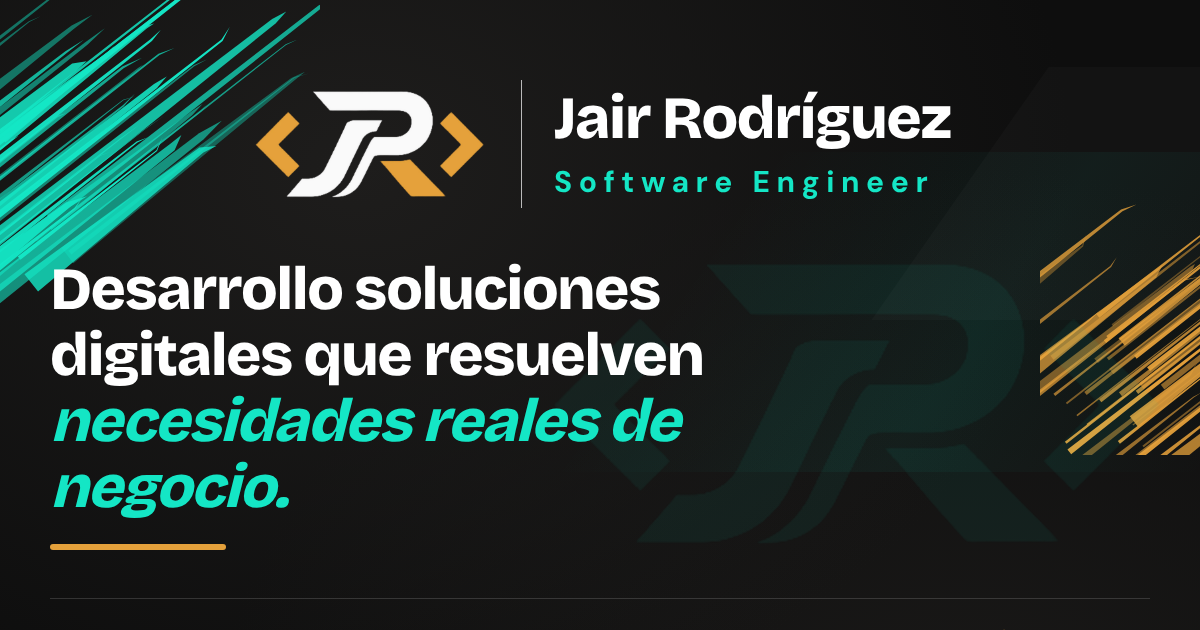
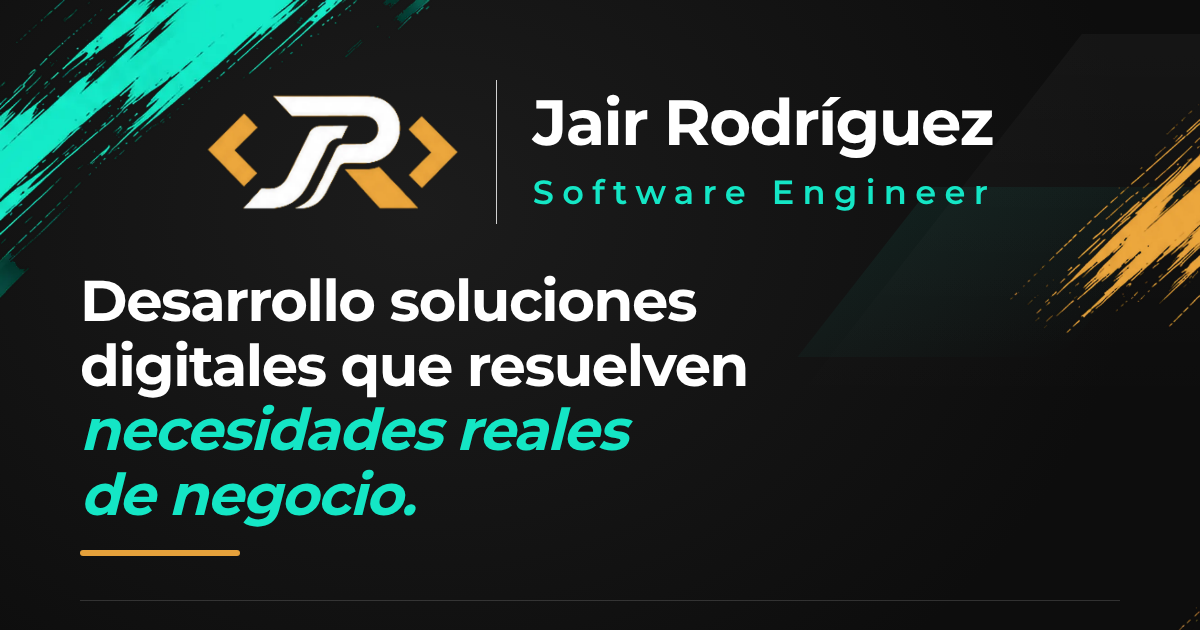
Tarjeta JR: brochazos y monograma originales, tipografía Montserrat
Claude-Session: https://claude.ai/code/session_01SPZzE7V1rF7zVSmvmfi8Vf

diff --git a/components/jr/JrCard.tsx b/components/jr/JrCard.tsx
@@ -4,7 +4,7 @@ import { FaGithub, FaLinkedinIn, FaWhatsapp } from "react-icons/fa";
 import {
   LuArrowRight,
   LuBrain,
-  LuChartNoAxesColumnIncreasing,
+  LuChartColumnIncreasing,
   LuCodeXml,
   LuDownload,
   LuGlobe,
@@ -12,15 +12,22 @@ import {
   LuSettings,
   LuUserPlus,
 } from "react-icons/lu";
+import { jrFont } from "./font";
 import { contact, services, type Accent } from "./jr-data";
 
 /** Clases por acento: el turquesa y el ámbar de la marca JR. */
-const accent: Record<Accent, { text: string; tint: string }> = {
-  turquesa: { text: "text-[#14E6C5]", tint: "bg-[#14E6C5]/12 ring-1 ring-[#14E6C5]/20" },
-  ambar: { text: "text-[#E5A13B]", tint: "bg-[#E5A13B]/12 ring-1 ring-[#E5A13B]/20" },
+const accent: Record<Accent, { text: string; tile: string }> = {
+  turquesa: {
+    text: "text-[#14E6C5]",
+    tile: "bg-[#14E6C5]/10 shadow-[0_0_22px_-6px_rgba(20,230,197,0.55)] ring-1 ring-[#14E6C5]/25",
+  },
+  ambar: {
+    text: "text-[#E5A13B]",
+    tile: "bg-[#E5A13B]/10 shadow-[0_0_22px_-6px_rgba(229,161,59,0.55)] ring-1 ring-[#E5A13B]/25",
+  },
 };
 
-const serviceIcons: IconType[] = [LuCodeXml, LuChartNoAxesColumnIncreasing, LuBrain, LuSettings];
+const serviceIcons: IconType[] = [LuCodeXml, LuChartColumnIncreasing, LuBrain, LuSettings];
 
 const links: { label: string; href: string; icon: IconType; external: boolean }[] = [
   { label: "GitHub", href: contact.github, icon: FaGithub, external: true },
@@ -31,82 +38,80 @@ const links: { label: string; href: string; icon: IconType; external: boolean }[
 
 const externalProps = { target: "_blank", rel: "noopener noreferrer" } as const;
 
-/** Brochazos decorativos (SVG en /public/jr). Puramente visuales. */
-function Brush({ color, className }: { color: Accent; className: string }) {
+/** Brochazos de la marca (PNG transparentes en /public/jr). Puramente decorativos. */
+function Brush({ src, w, h, className }: { src: string; w: number; h: number; className: string }) {
   return (
-    // eslint-disable-next-line @next/next/no-img-element
-    <img
-      src={`/jr/brochazo-${color}.svg`}
+    <Image
+      src={`/jr/${src}.png`}
       alt=""
       aria-hidden="true"
-      className={`pointer-events-none absolute select-none ${className}`}
+      width={w}
+      height={h}
+      sizes="(min-width: 1024px) 40vw, 70vw"
+      className={`pointer-events-none absolute h-auto select-none ${className}`}
     />
   );
 }
 
 export default function JrCard() {
   return (
-    <main className="relative min-h-screen overflow-hidden bg-[#0E0E0E] text-white">
-      {/* Fondo: degradado carbón y formas geométricas sutiles */}
+    <main className={`${jrFont.className} relative min-h-screen overflow-hidden bg-[#0D0D0D] text-white`}>
+      {/* Fondo: carbón con formas geométricas sutiles */}
       <div
         aria-hidden="true"
-        className="pointer-events-none absolute inset-0 bg-[radial-gradient(ellipse_at_30%_20%,#1E1D1C_0%,transparent_60%),radial-gradient(ellipse_at_80%_90%,#1A1918_0%,transparent_55%)]"
+        className="pointer-events-none absolute inset-0 bg-[radial-gradient(ellipse_at_35%_25%,#1C1C1C_0%,transparent_65%)]"
       />
       <div
         aria-hidden="true"
-        className="pointer-events-none absolute right-[-10%] top-[18%] h-[38%] w-[55%] -skew-x-[35deg] bg-gradient-to-r from-transparent via-[#14E6C5]/[0.05] to-transparent"
+        className="pointer-events-none absolute right-[-12%] top-[4%] h-[44%] w-[34%] -skew-x-[38deg] bg-gradient-to-b from-white/[0.035] to-transparent"
       />
       <div
         aria-hidden="true"
-        className="pointer-events-none absolute right-[-25%] top-[8%] h-[30%] w-[45%] -skew-x-[35deg] bg-white/[0.025]"
+        className="pointer-events-none absolute right-[6%] top-[22%] h-[20%] w-[22%] -skew-x-[38deg] bg-gradient-to-br from-[#14E6C5]/[0.07] to-transparent"
       />
 
       {/* Brochazos en las esquinas */}
-      <Brush color="turquesa" className="-left-24 -top-28 w-72 sm:w-[26rem]" />
-      <Brush color="turquesa" className="-bottom-24 -left-28 w-56 opacity-80 sm:-bottom-32 sm:w-96" />
-      <Brush color="ambar" className="-right-40 top-[16%] hidden w-80 lg:block" />
-      <Brush color="ambar" className="-bottom-24 -right-24 w-60 sm:-bottom-28 sm:w-[26rem]" />
+      <Brush src="brochazo-turquesa-sup" w={1270} h={883} className="left-0 top-0 w-[62%] sm:w-[42%] lg:w-[36%]" />
+      <Brush src="brochazo-turquesa-inf" w={715} h={541} className="bottom-0 left-0 w-[46%] sm:w-[30%] lg:w-[21%]" />
+      <Brush src="brochazo-ambar-der" w={595} h={722} className="right-0 top-[12%] hidden w-[16%] lg:block" />
+      <Brush src="brochazo-ambar-inf" w={1093} h={712} className="bottom-0 right-0 w-[62%] sm:w-[42%] lg:w-[31%]" />
 
-      <div className="relative mx-auto flex w-full max-w-[1180px] flex-col gap-10 px-5 pb-36 pt-12 lg:pb-40 sm:gap-12 sm:px-10 sm:pt-16 lg:pt-20">
+      <div className="relative mx-auto flex w-full max-w-[1120px] flex-col gap-9 px-5 pb-36 pt-14 sm:gap-11 sm:px-10 sm:pt-20 lg:pb-40">
         {/* Encabezado */}
-        <header className="flex items-center justify-center gap-4 sm:gap-8">
+        <header className="flex items-center justify-center gap-4 sm:gap-9">
           <Image
             src="/jr/monograma.png"
             alt="Monograma JR"
-            width={1448}
-            height={708}
+            width={1120}
+            height={528}
             priority
-            className="h-auto w-28 shrink-0 sm:w-48 lg:w-60"
+            className="h-auto w-28 shrink-0 sm:w-52 lg:w-64"
           />
-          <span aria-hidden="true" className="h-16 w-px shrink-0 bg-white/70 sm:h-32" />
+          <span aria-hidden="true" className="h-16 w-px shrink-0 bg-white/80 sm:h-28 lg:h-36" />
           <div className="min-w-0">
-            <h1 className="font-heading text-[1.7rem] font-bold leading-none tracking-tight sm:text-5xl lg:text-6xl">
+            <h1 className="text-[1.6rem] font-bold leading-none tracking-tight sm:text-5xl lg:text-[4rem]">
               Jair Rodríguez
             </h1>
-            <p className="mt-2 text-[0.95rem] font-bold tracking-[0.18em] text-[#14E6C5] sm:mt-4 sm:text-2xl sm:tracking-[0.22em] lg:text-3xl">
+            <p className="mt-2 text-[0.9rem] font-semibold tracking-[0.2em] text-[#14E6C5] sm:mt-4 sm:text-2xl sm:tracking-[0.25em] lg:text-[2.1rem]">
               Software Engineer
             </p>
           </div>
         </header>
 
-        {/* Mensaje principal con marca de agua */}
-        <section aria-labelledby="jr-mensaje" className="relative">
-          <Image
-            src="/jr/monograma-marca-agua.png"
-            alt=""
-            aria-hidden="true"
-            width={1448}
-            height={708}
-            className="pointer-events-none absolute -right-16 top-1/2 h-auto w-[115%] max-w-none -translate-y-1/2 select-none opacity-[0.06] sm:-right-6 sm:w-[66%] lg:w-[58%]"
-          />
+        {/* Mensaje principal */}
+        <section aria-labelledby="jr-mensaje">
           <h2
             id="jr-mensaje"
-            className="relative max-w-[18ch] font-heading text-[2.15rem] font-bold leading-[1.1] tracking-tight sm:text-6xl"
+            className="text-[1.95rem] font-bold leading-[1.12] tracking-tight sm:text-5xl lg:text-[3.6rem]"
           >
-            Desarrollo soluciones digitales que resuelven{" "}
-            <em className="text-[#14E6C5]">necesidades reales de negocio.</em>
+            Desarrollo soluciones <br className="hidden sm:block" />
+            digitales que resuelven <br className="hidden sm:block" />
+            <em className="font-bold text-[#14E6C5]">
+              necesidades reales <br className="hidden sm:block" />
+              de negocio.
+            </em>
           </h2>
-          <span aria-hidden="true" className="relative mt-6 block h-1.5 w-28 rounded-full bg-[#E5A13B] sm:w-44" />
+          <span aria-hidden="true" className="mt-6 block h-1.5 w-28 rounded-full bg-[#E5A13B] sm:w-40" />
         </section>
 
         {/* Servicios */}
@@ -118,13 +123,13 @@ export default function JrCard() {
               return (
                 <li
                   key={s.title}
-                  className="flex flex-col rounded-3xl border border-white/[0.07] bg-[#1B1A19] p-4 shadow-[0_14px_30px_-18px_rgba(0,0,0,0.9)] sm:p-6"
+                  className="flex flex-col rounded-[1.6rem] border border-white/[0.08] bg-gradient-to-b from-[#1D1D1D] to-[#161616] p-4 shadow-[0_18px_34px_-20px_rgba(0,0,0,1)] sm:p-6"
                 >
-                  <span className={`grid size-12 place-items-center rounded-2xl sm:size-16 ${a.tint} ${a.text}`}>
-                    <Icon aria-hidden="true" strokeWidth={2} className="size-7 sm:size-10" />
+                  <span className={`grid size-12 place-items-center rounded-2xl sm:size-16 ${a.tile} ${a.text}`}>
+                    <Icon aria-hidden="true" strokeWidth={2.2} className="size-7 sm:size-9" />
                   </span>
-                  <h3 className="mt-4 font-heading text-[1.05rem] font-bold leading-tight sm:text-2xl">{s.title}</h3>
-                  <p className="mt-2 text-sm leading-snug text-[#B8B3AD] sm:text-base">{s.description}</p>
+                  <h3 className="mt-4 text-[1.02rem] font-bold leading-tight sm:text-[1.45rem] lg:text-[1.35rem] xl:text-[1.5rem]">{s.title}</h3>
+                  <p className="mt-2 text-[0.85rem] font-medium leading-snug text-[#BDBDBD] sm:text-base">{s.description}</p>
                 </li>
               );
             })}
@@ -132,48 +137,50 @@ export default function JrCard() {
         </section>
 
         {/* Acciones principales */}
-        <section aria-label="Contacto" className="grid gap-4 sm:gap-5 lg:grid-cols-2 lg:gap-6">
+        <section aria-label="Contacto" className="grid gap-4 sm:gap-5 lg:grid-cols-2 lg:gap-8">
           <a
             href={`https://wa.me/${contact.whatsapp}`}
             {...externalProps}
-            className="group flex min-h-[4.5rem] items-center gap-4 rounded-full bg-[#14E6C5] px-6 text-[#0E0E0E] transition hover:-translate-y-0.5 hover:bg-[#3DEDD1] sm:min-h-24 sm:px-7 lg:px-10"
+            aria-label="Hablemos por WhatsApp"
+            className="group flex min-h-[5rem] items-center gap-5 rounded-full bg-[#14E6C5] px-7 text-[#0D0D0D] shadow-[0_0_30px_-6px_rgba(20,230,197,0.6)] transition hover:-translate-y-0.5 hover:bg-[#3BEDD0] sm:min-h-24 sm:px-12"
           >
-            <FaWhatsapp aria-hidden="true" className="size-9 shrink-0 sm:size-12" />
-            <span aria-hidden="true" className="h-10 w-px shrink-0 bg-[#0E0E0E]/30" />
-            <span className="flex-1 font-heading text-xl font-bold leading-tight sm:text-2xl lg:text-3xl">
-              Hablemos por WhatsApp
+            <FaWhatsapp aria-hidden="true" className="size-10 shrink-0 sm:size-14" />
+            <span aria-hidden="true" className="h-12 w-px shrink-0 bg-[#0D0D0D]/30" />
+            <span className="flex-1 leading-none">
+              <span className="block text-base font-bold sm:text-xl">Hablemos por</span>
+              <span className="mt-1 block text-[1.6rem] font-extrabold sm:text-[2rem]">WhatsApp</span>
             </span>
-            <LuArrowRight aria-hidden="true" className="size-7 shrink-0 transition group-hover:translate-x-1 sm:size-9" />
+            <LuArrowRight aria-hidden="true" strokeWidth={2.5} className="size-8 shrink-0 transition group-hover:translate-x-1 sm:size-10" />
           </a>
           <a
             href="/jr/jair-rodriguez.vcf"
             download="Jair-Rodriguez.vcf"
-            className="group flex min-h-[4.5rem] items-center gap-4 rounded-full border-2 border-[#E5A13B] px-6 transition hover:-translate-y-0.5 hover:bg-[#E5A13B]/10 sm:min-h-24 sm:px-7 lg:px-10"
+            className="group flex min-h-[5rem] items-center gap-4 rounded-full border-2 border-[#E5A13B] px-7 shadow-[0_0_24px_-10px_rgba(229,161,59,0.8)] transition hover:-translate-y-0.5 hover:bg-[#E5A13B]/10 sm:min-h-24 sm:px-12"
           >
-            <LuUserPlus aria-hidden="true" className="size-8 shrink-0 sm:size-10" />
-            <span aria-hidden="true" className="h-10 w-px shrink-0 bg-white/40" />
-            <span className="flex-1 font-heading text-xl font-bold sm:text-2xl lg:text-3xl">Guardar contacto</span>
-            <LuDownload aria-hidden="true" className="size-7 shrink-0 transition group-hover:translate-y-0.5 sm:size-9" />
+            <LuUserPlus aria-hidden="true" className="size-9 shrink-0 sm:size-11" />
+            <span aria-hidden="true" className="h-12 w-px shrink-0 bg-white/40" />
+            <span className="flex-1 whitespace-nowrap text-lg font-bold sm:text-[1.65rem]">Guardar contacto</span>
+            <LuDownload aria-hidden="true" className="size-8 shrink-0 transition group-hover:translate-y-0.5 sm:size-10" />
           </a>
         </section>
 
         {/* Enlaces */}
         <nav aria-label="Enlaces" className="border-t border-white/15 pt-6 sm:pt-8">
-          <ul className="grid grid-cols-3 gap-y-3 lg:flex lg:items-center lg:justify-between lg:divide-x lg:divide-white/20">
+          <ul className="grid grid-cols-3 gap-y-3 lg:flex lg:items-center lg:justify-between lg:divide-x lg:divide-white/25">
             {links.map(({ label, href, icon: Icon, external }) => {
               const wide = href === contact.site;
               return (
                 <li
                   key={label}
-                  className={`flex justify-center lg:flex-1 ${wide ? "order-last col-span-3 lg:order-none lg:flex-[1.8]" : ""}`}
+                  className={`flex justify-center lg:flex-1 ${wide ? "order-last col-span-3 lg:order-none lg:flex-[1.9]" : ""}`}
                 >
                   <a
                     href={href}
                     {...(external ? externalProps : {})}
-                    className={`flex items-center gap-2 rounded-xl px-3 py-2 text-[0.95rem] font-semibold transition hover:text-[#14E6C5] sm:gap-3 sm:text-xl lg:flex-row ${wide ? "flex-row" : "flex-col sm:flex-row"}`}
+                    className={`flex items-center gap-2 rounded-xl px-3 py-2 text-[0.95rem] font-semibold transition hover:text-[#14E6C5] sm:gap-4 sm:text-xl lg:flex-row lg:text-lg xl:text-xl ${wide ? "flex-row" : "flex-col sm:flex-row"}`}
                   >
-                    <Icon aria-hidden="true" className="size-7 shrink-0 sm:size-9" />
-                    <span className="leading-tight">{label}</span>
+                    <Icon aria-hidden="true" className="size-8 shrink-0 sm:size-10" />
+                    <span className="leading-tight lg:whitespace-nowrap">{label}</span>
                   </a>
                 </li>
               );

diff --git a/components/jr/font.ts b/components/jr/font.ts
@@ -1,0 +1,8 @@
+import { Montserrat } from "next/font/google";
+
+/** Tipografía exclusiva de la tarjeta /jr (no afecta al portafolio). */
+export const jrFont = Montserrat({
+  subsets: ["latin"],
+  weight: ["500", "600", "700", "800"],
+  display: "swap",
+});
